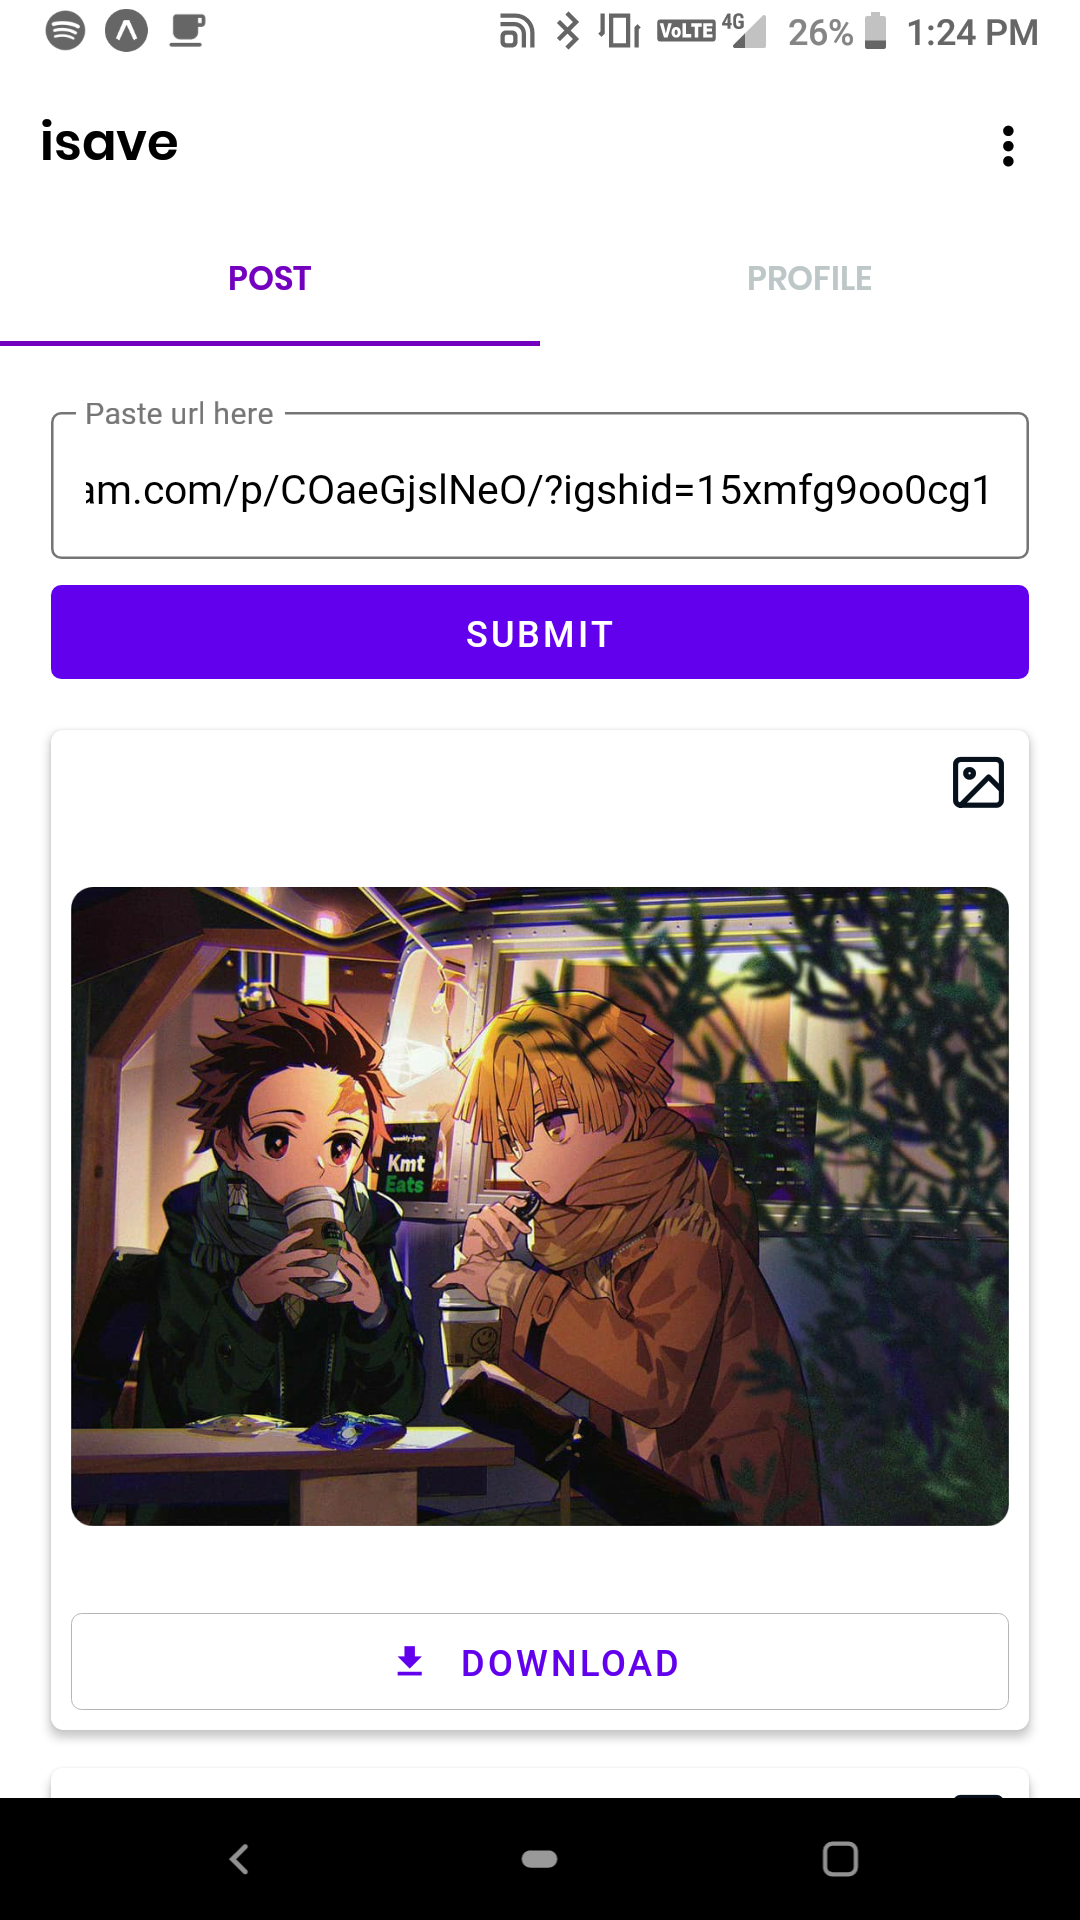
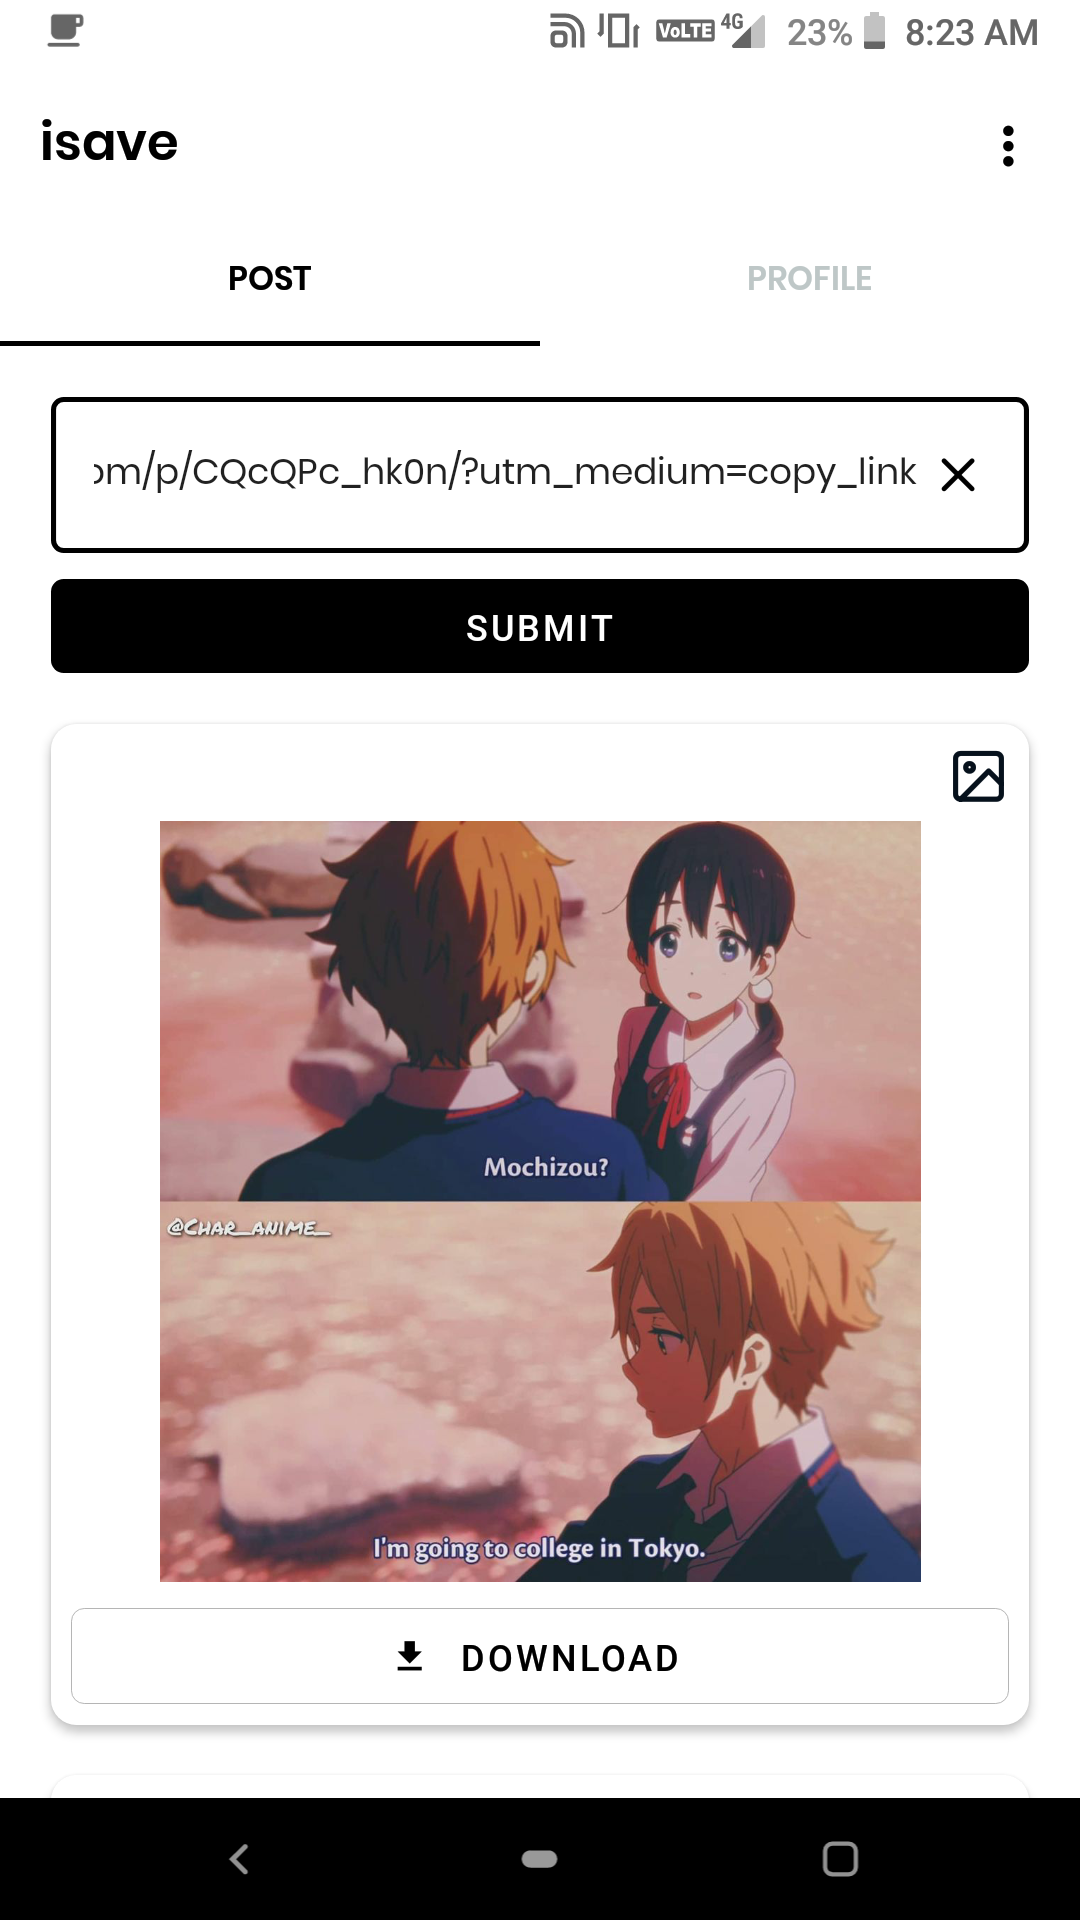
few changes and little improvement UI

diff --git a/src/screens/post.tsx b/src/screens/post.tsx
@@ -13,7 +13,12 @@ import { Feather } from "@expo/vector-icons";
 // components
 import Card from "../components/card";
 import Info from "../components/info";
+
+// utils
 import { errorMessage } from "../utils/notification";
+
+// lib
+import { getClipboardData } from "../lib/clipboard";
 
 const Post: FC = () => {
   const [text, setText] = useState<string>("");
@@ -66,6 +71,12 @@ const Post: FC = () => {
     else setShowClearInputBtn(false);
   };
 
+  const setClipboard = async () => {
+    const res = await getClipboardData();
+    setText(res);
+    setShowClearInputBtn(true);
+  };
+
   return (
     <ScrollView style={styles.container}>
       <View style={styles.inputOptions}>
@@ -79,7 +90,7 @@ const Post: FC = () => {
             autoCapitalize="none"
             onSubmitEditing={fetchApi}
           />
-          {showClearInputBtn && (
+          {showClearInputBtn ? (
             <Pressable
               onPress={() => {
                 setText("");
@@ -88,6 +99,10 @@ const Post: FC = () => {
               style={{ marginLeft: 5 }}
             >
               <Feather name="x" size={22} color="black" />
+            </Pressable>
+          ) : (
+            <Pressable onPress={setClipboard} style={{ marginLeft: 5 }}>
+              <Feather name="link-2" size={22} color="black" />
             </Pressable>
           )}
         </View>

diff --git a/src/screens/profile.tsx b/src/screens/profile.tsx
@@ -22,6 +22,9 @@ import ImageViewer from "../components/imageViewer";
 // utils
 import { successMessage } from "../utils/notification";
 
+// lib
+import { getClipboardData } from "../lib/clipboard";
+
 const randomNumber = (): number => {
   const date = new Date();
   return date.getTime();
@@ -119,6 +122,12 @@ const Profile: FC = () => {
     else setShowClearInputBtn(false);
   };
 
+  const setClipboard = async () => {
+    const res = await getClipboardData();
+    setText(res);
+    setShowClearInputBtn(true);
+  };
+
   return (
     <>
       <ScrollView style={styles.container}>
@@ -133,7 +142,7 @@ const Profile: FC = () => {
               autoCapitalize="none"
               onSubmitEditing={fetchApi}
             />
-            {showClearInputBtn && (
+            {showClearInputBtn ? (
               <Pressable
                 onPress={() => {
                   setText("");
@@ -142,6 +151,10 @@ const Profile: FC = () => {
                 style={{ marginLeft: 5 }}
               >
                 <Feather name="x" size={22} color="black" />
+              </Pressable>
+            ) : (
+              <Pressable onPress={setClipboard} style={{ marginLeft: 5 }}>
+                <Feather name="link-2" color="black" size={22} />
               </Pressable>
             )}
           </View>

diff --git a/App.tsx b/App.tsx
@@ -14,7 +14,7 @@ import axios from "axios";
 const Tab = createMaterialTopTabNavigator();
 
 const App: FC = () => {
-  axios.defaults.baseURL = "http://192.168.43.106:5001/api";
+  axios.defaults.baseURL = "http://localhost:5001/api";
 
   const [fontLoaded] = useFonts({
     regular: require("./assets/fonts/Poppins-Regular.ttf"),

diff --git a/src/lib/clipboard.ts b/src/lib/clipboard.ts
@@ -1,0 +1,6 @@
+import Clipboard from "expo-clipboard";
+
+export const getClipboardData = async () => {
+  const res = await Clipboard.getStringAsync();
+  return res;
+};
